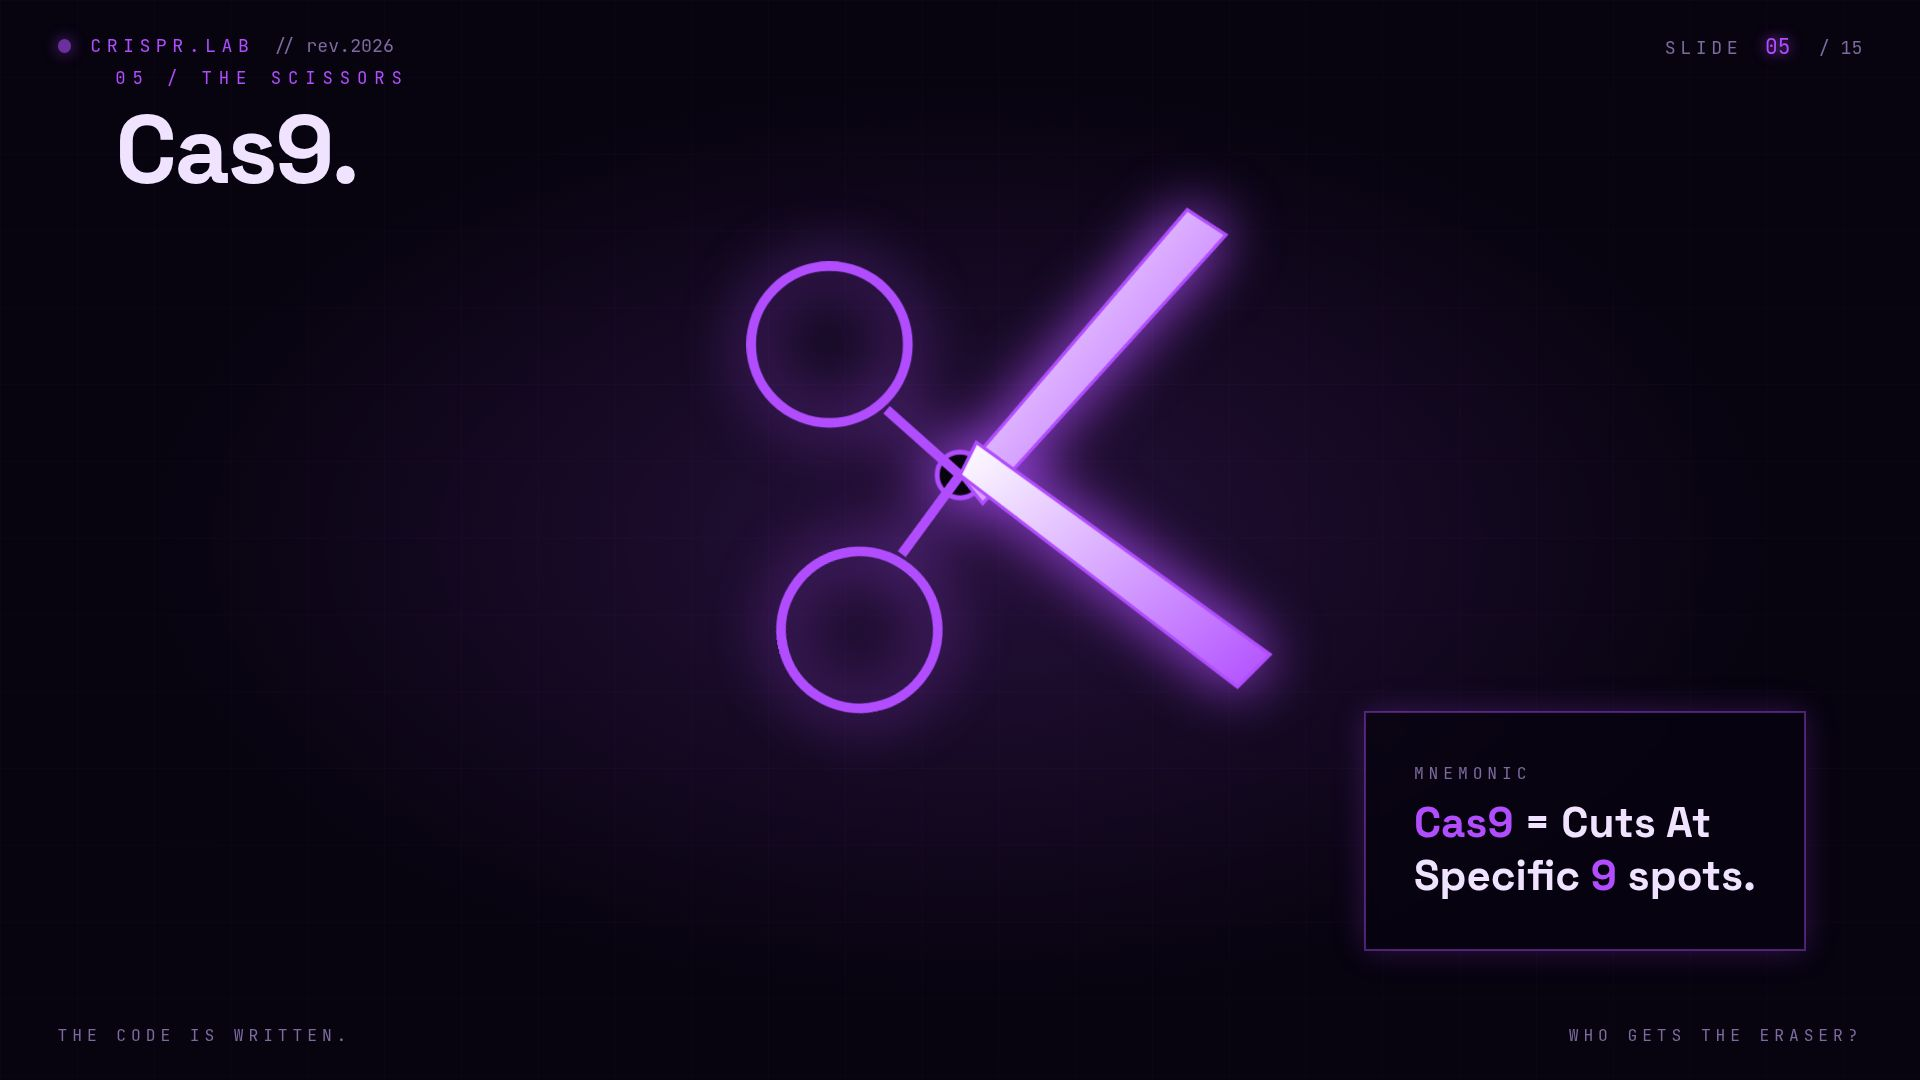
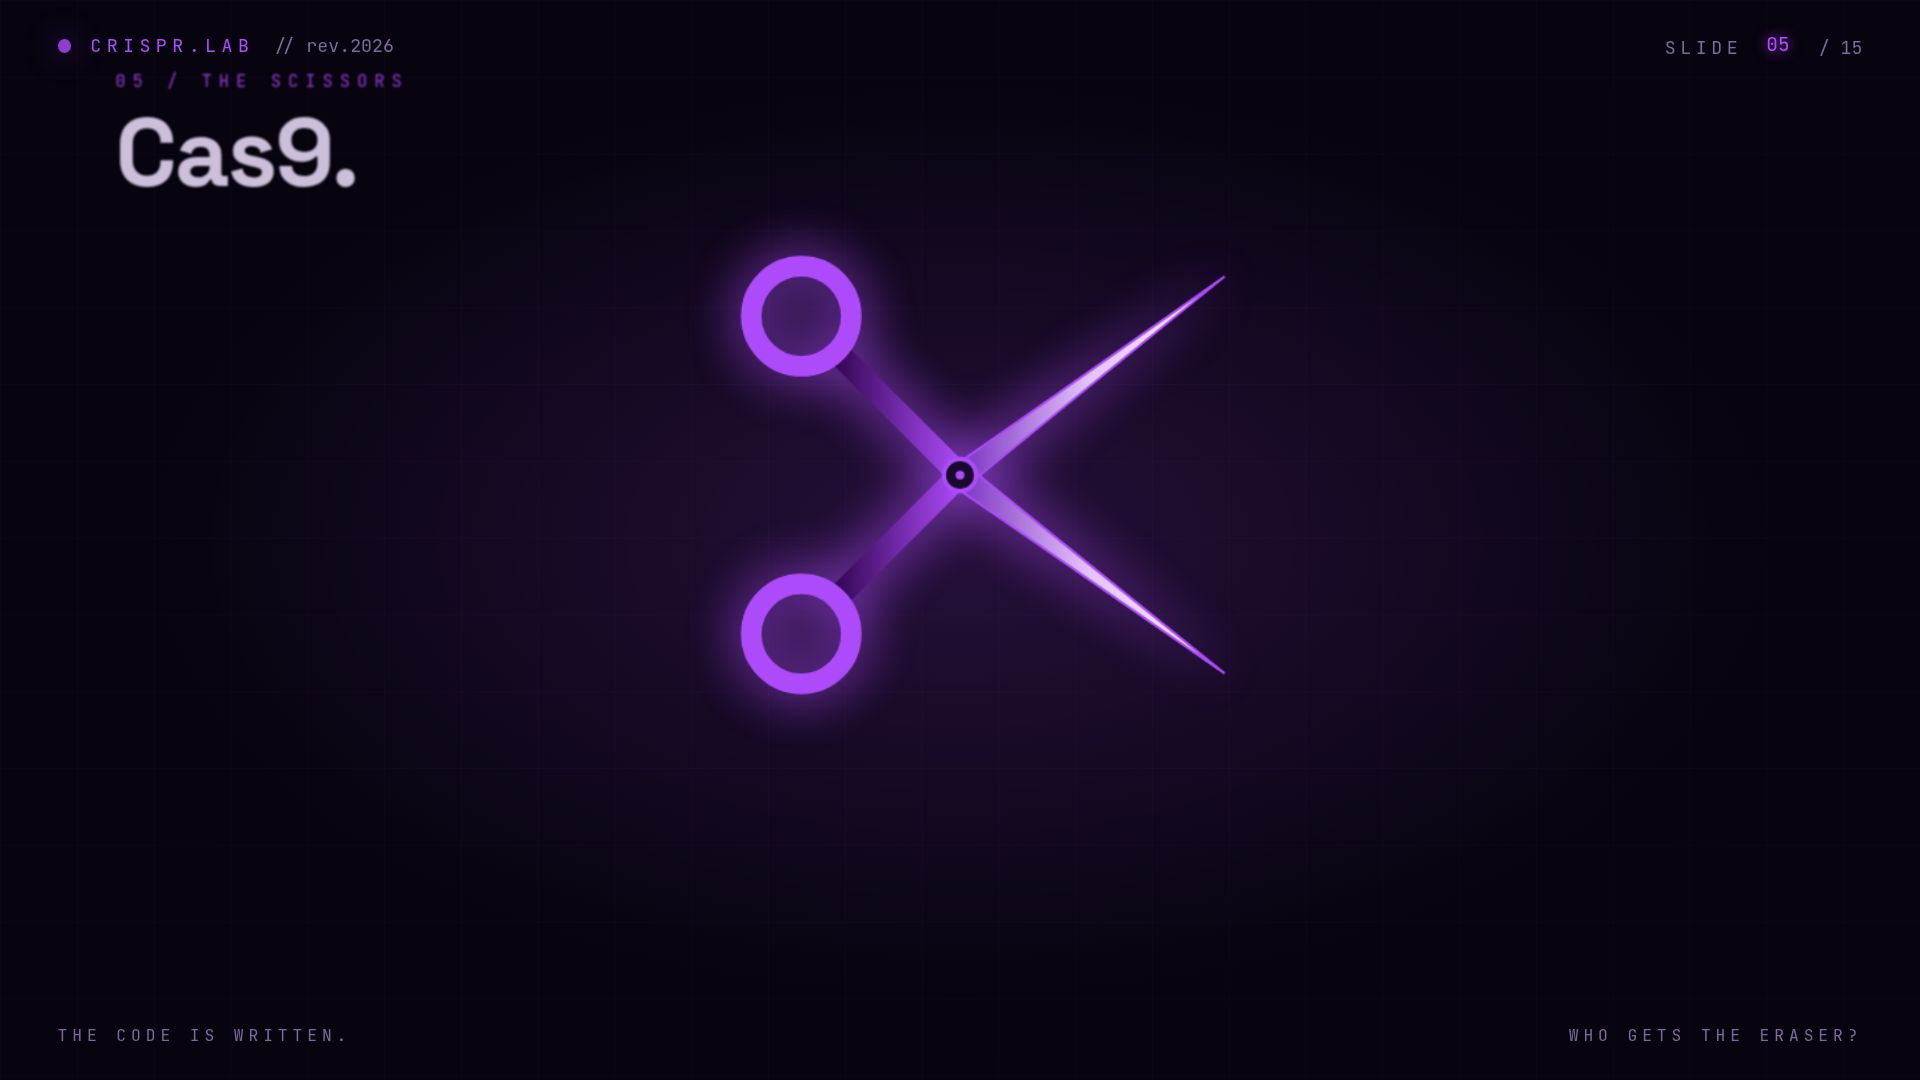
Improve scissors animation and appearance on slide 5
Introduce new CSS keyframes for scissor animations and update SVG elements in Slide05Cas9.tsx to refine the visual appearance and motion of the scissors, including updated gradients for blades and handles.

Replit-Commit-Author: Agent
Replit-Commit-Session-Id: 3b18fbcb-9325-42a6-a823-950d40ee5492
Replit-Commit-Checkpoint-Type: full_checkpoint
Replit-Commit-Event-Id: 09a42f07-3bf1-425c-8057-d0280e8fec02
Replit-Commit-Screenshot-Url: https://storage.googleapis.com/screenshot-production-us-central1/f14ca61b-bc6a-46a7-8720-46ccaebc6cad/3b18fbcb-9325-42a6-a823-950d40ee5492/YmfqSut
Replit-Helium-Checkpoint-Created: true

diff --git a/artifacts/crispr-deck/src/pages/slides/Slide05Cas9.tsx b/artifacts/crispr-deck/src/pages/slides/Slide05Cas9.tsx
@@ -13,25 +13,37 @@ export default function Slide05Cas9() {
         <div className="w-full h-full" style={{ animation: "float-y 4s ease-in-out 1.4s infinite" }}>
           <svg viewBox="0 0 400 400" className="w-full h-full" style={{ filter: "drop-shadow(0 0 30px #b14dff)" }}>
             <defs>
-              <linearGradient id="bladeG" x1="0" y1="0" x2="1" y2="1">
-                <stop offset="0%" stopColor="#ffffff" />
+              <linearGradient id="bladeG" x1="0" y1="0" x2="1" y2="0">
+                <stop offset="0%" stopColor="#7a2dc4" />
+                <stop offset="50%" stopColor="#e9c8ff" />
+                <stop offset="100%" stopColor="#ffffff" />
+              </linearGradient>
+              <linearGradient id="handleG" x1="0" y1="0" x2="1" y2="0">
+                <stop offset="0%" stopColor="#3a0a5a" />
                 <stop offset="100%" stopColor="#b14dff" />
               </linearGradient>
             </defs>
-            {/* Pivot */}
-            <circle cx="200" cy="200" r="14" fill="#07030f" stroke="#b14dff" strokeWidth="3" />
-            {/* Upper blade */}
-            <g style={{ transformOrigin: "200px 200px", animation: "tilt-left 2s cubic-bezier(.4,.1,.3,1) 1.6s both" }}>
-              <path d="M200 200 L370 70 L390 90 L210 220 Z" fill="url(#bladeG)" stroke="#b14dff" strokeWidth="2" />
-              <circle cx="120" cy="280" r="48" fill="none" stroke="#b14dff" strokeWidth="6" />
-              <line x1="200" y1="200" x2="155" y2="240" stroke="#b14dff" strokeWidth="6" />
+
+            {/* Upper scissor half: blade goes up-right, handle ring at lower-left */}
+            <g style={{ transformOrigin: "200px 200px", animation: "scissor-upper 2.2s cubic-bezier(.4,.1,.3,1) 1.4s both" }}>
+              {/* Handle arm from pivot down-left */}
+              <line x1="200" y1="200" x2="118" y2="282" stroke="url(#handleG)" strokeWidth="16" strokeLinecap="round" />
+              {/* Handle ring */}
+              <circle cx="92" cy="308" r="34" fill="none" stroke="#b14dff" strokeWidth="14" />
+              {/* Blade — tapered triangle from pivot to upper-right tip */}
+              <path d="M196 194 L380 65 L205 207 Z" fill="url(#bladeG)" stroke="#b14dff" strokeWidth="1.5" />
             </g>
-            {/* Lower blade */}
-            <g style={{ transformOrigin: "200px 200px", animation: "tilt-left 2s cubic-bezier(.4,.1,.3,1) 1.6s both", animationDirection: "reverse" }}>
-              <path d="M200 200 L370 330 L390 310 L210 180 Z" fill="url(#bladeG)" stroke="#b14dff" strokeWidth="2" />
-              <circle cx="120" cy="120" r="48" fill="none" stroke="#b14dff" strokeWidth="6" />
-              <line x1="200" y1="200" x2="155" y2="160" stroke="#b14dff" strokeWidth="6" />
+
+            {/* Lower scissor half: blade goes down-right, handle ring at upper-left */}
+            <g style={{ transformOrigin: "200px 200px", animation: "scissor-lower 2.2s cubic-bezier(.4,.1,.3,1) 1.4s both" }}>
+              <line x1="200" y1="200" x2="118" y2="118" stroke="url(#handleG)" strokeWidth="16" strokeLinecap="round" />
+              <circle cx="92" cy="92" r="34" fill="none" stroke="#b14dff" strokeWidth="14" />
+              <path d="M195 207 L380 335 L205 194 Z" fill="url(#bladeG)" stroke="#b14dff" strokeWidth="1.5" />
             </g>
+
+            {/* Pivot screw — drawn last so it sits on top */}
+            <circle cx="200" cy="200" r="11" fill="#1a0a2e" stroke="#b14dff" strokeWidth="3" />
+            <circle cx="200" cy="200" r="3" fill="#b14dff" />
           </svg>
         </div>
       </div>

diff --git a/artifacts/crispr-deck/src/index.css b/artifacts/crispr-deck/src/index.css
@@ -126,6 +126,16 @@ body {
   60% { transform: rotate(-18deg); }
   100% { transform: rotate(-12deg); }
 }
+@keyframes scissor-upper {
+  0%   { transform: rotate(-14deg); }
+  55%  { transform: rotate(4deg); }
+  100% { transform: rotate(0deg); }
+}
+@keyframes scissor-lower {
+  0%   { transform: rotate(14deg); }
+  55%  { transform: rotate(-4deg); }
+  100% { transform: rotate(0deg); }
+}
 @keyframes butterfly {
   0%, 100% { transform: translate(0,0) rotate(0); }
   25% { transform: translate(8vw,-4vh) rotate(8deg); }
